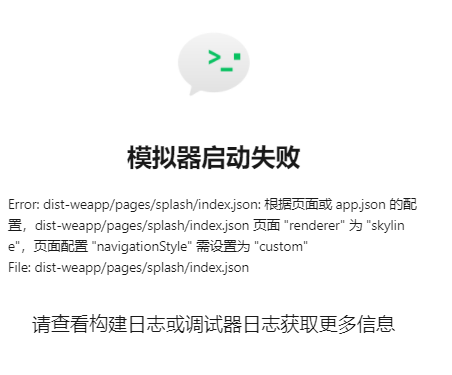
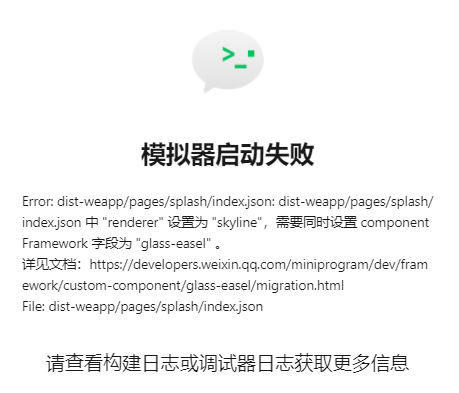
fix: 完善 splash 页面 Skyline 渲染器配置
添加完整的 Skyline 渲染器所需配置：
- renderer: "skyline"
- componentFramework: "glass-easel"
- navigationStyle: "custom"

解决微信小程序模拟器启动失败的问题

diff --git a/src/pages/splash/index.config.ts b/src/pages/splash/index.config.ts
@@ -3,11 +3,15 @@ export default typeof definePageConfig === 'function'
       navigationBarTitleText: '事绩通',
       navigationBarBackgroundColor: '#1377EB',
       navigationBarTextStyle: 'white',
-      navigationStyle: 'custom'
+      navigationStyle: 'custom',
+      renderer: 'skyline',
+      componentFramework: 'glass-easel'
     })
   : {
       navigationBarTitleText: '事绩通',
       navigationBarBackgroundColor: '#1377EB',
       navigationBarTextStyle: 'white',
-      navigationStyle: 'custom'
+      navigationStyle: 'custom',
+      renderer: 'skyline',
+      componentFramework: 'glass-easel'
     };
